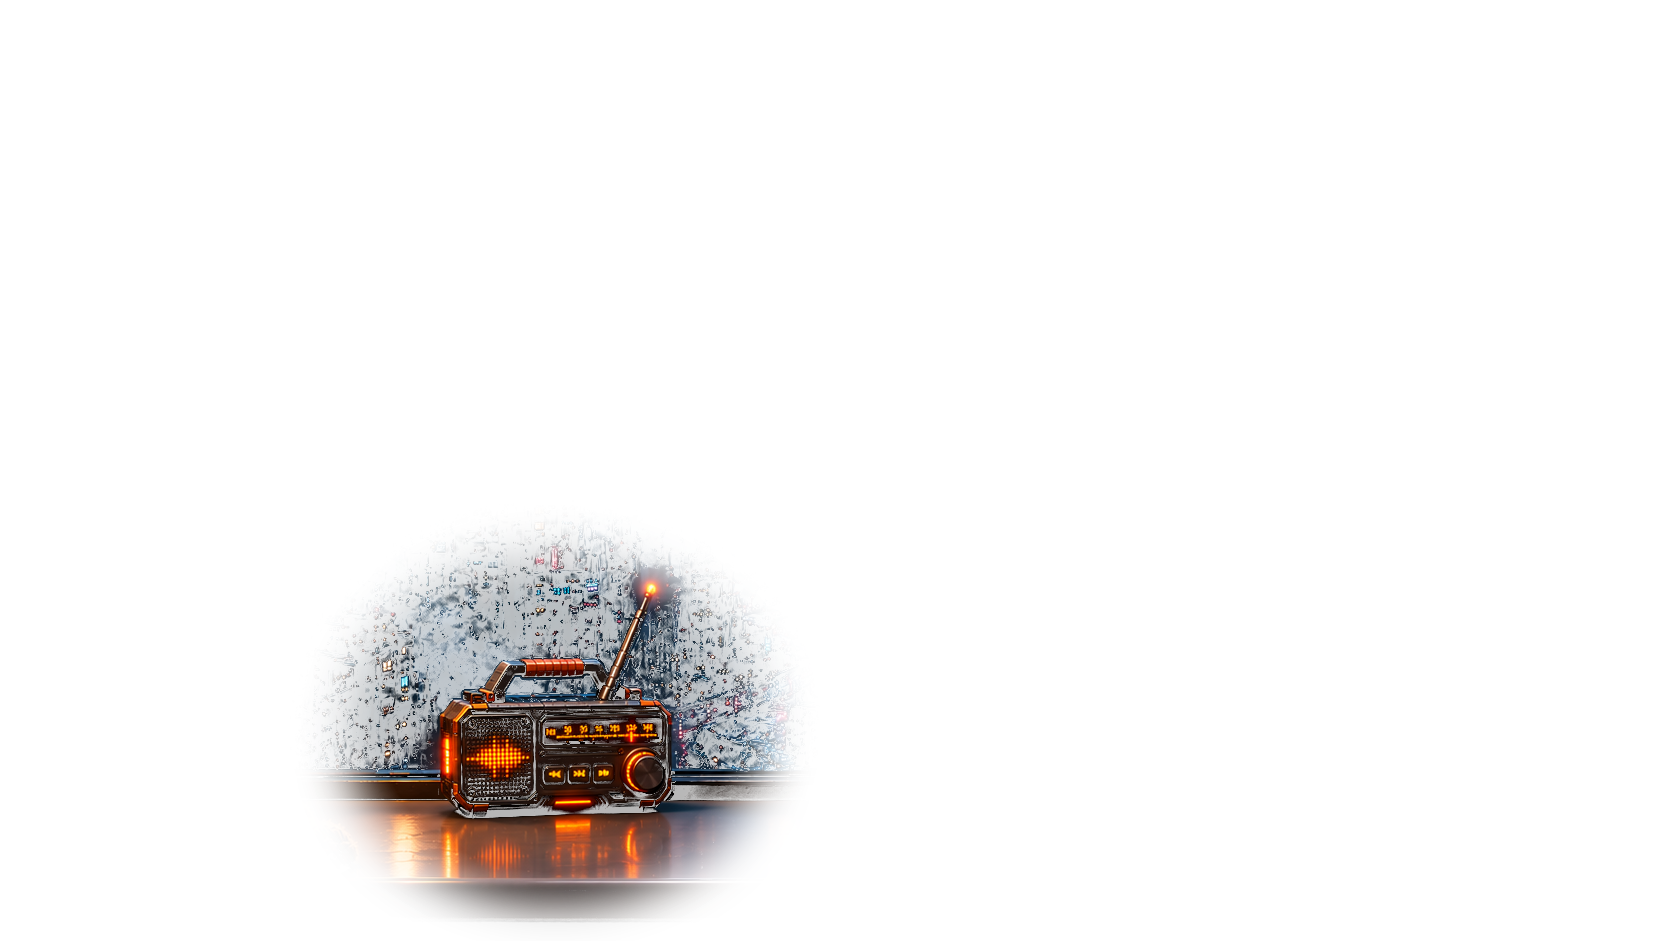
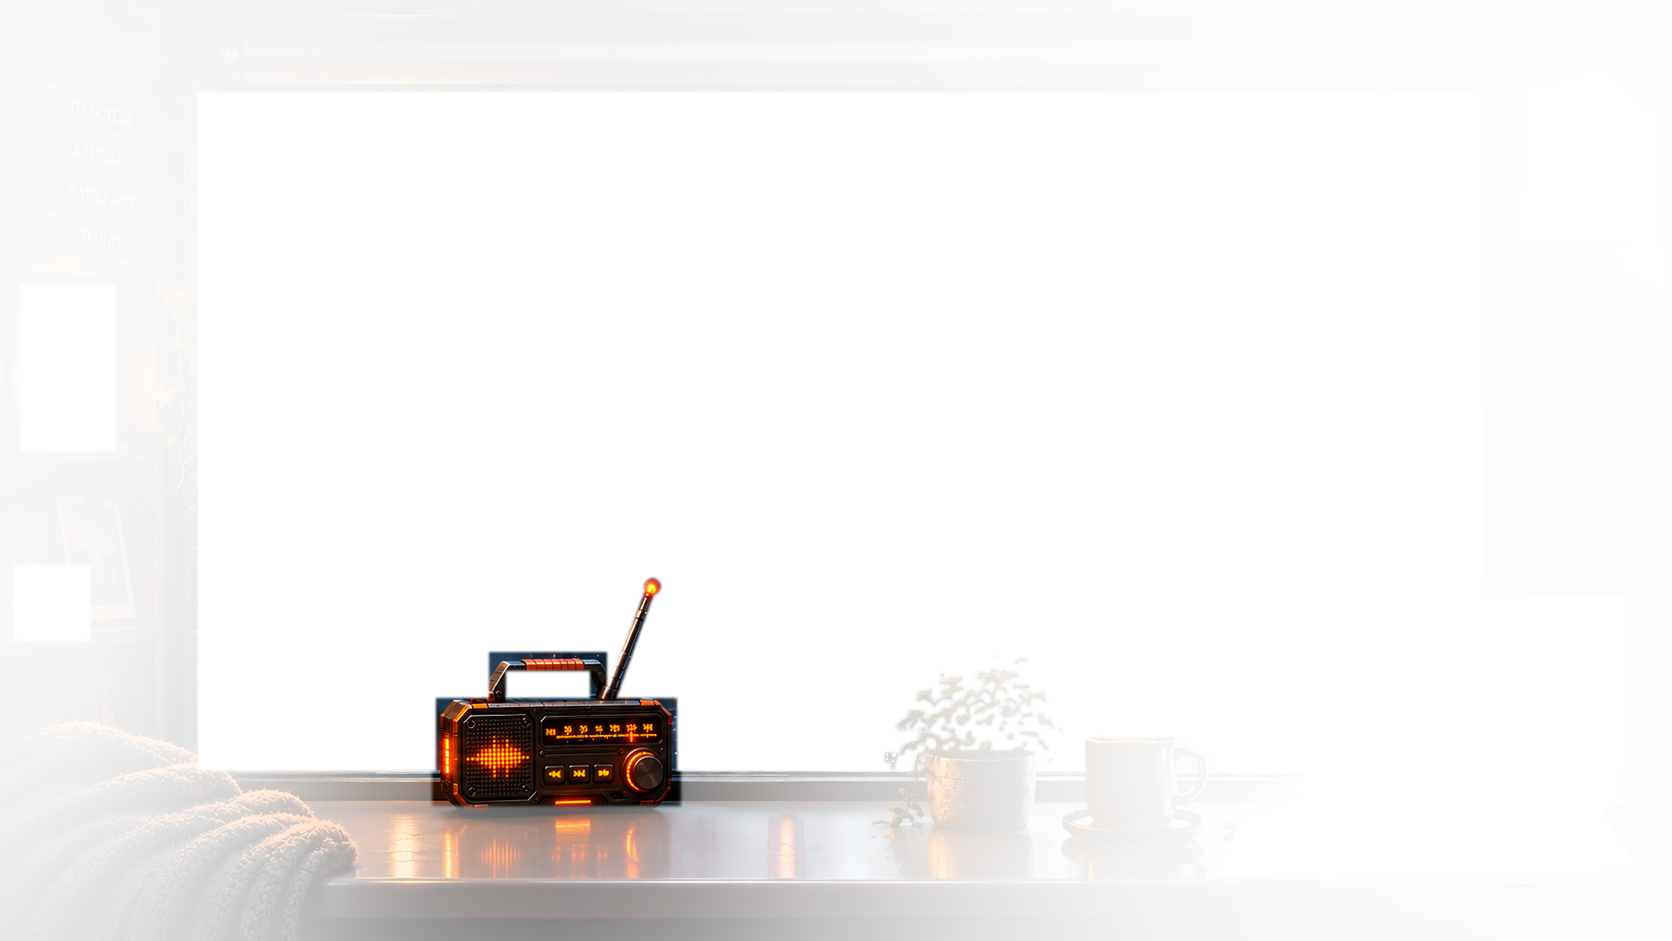
Свет по картам влияния ON−OFF (без утечек на экран ноутбука), натуральный тонкий дождь

Changed region(s): [[0.0, 0.5547, 0.6531, 1.0]]

diff --git a/src/main.js b/src/main.js
@@ -41,14 +41,16 @@ function fullPlane(frag, uniforms, blending = THREE.NormalBlending) {
   m.position.set(W / 2, H / 2, 0); m.renderOrder = order++; scene.add(m); return m;
 }
 
-// ---------- 1. база (всё выключено) ----------
+// ---------- 1–2. комната: OFF + Σ доля_i·(ON−OFF) — свет каждого прибора по своей карте влияния ----------
+// Карты (masks/light_rgb: r=лампа, g=фонарь+свеча, b=радио; masks/light_laptop) строит tools/make_layers.py;
+// предметы-источники — жёсткие маски, поэтому экран ноутбука светится только от ноутбука. Всё вкл = ON-кадр.
 const baseTex = loadTex(layerPath('01_base'));
-fullPlane(`uniform sampler2D map; uniform float uDim; void main(){ gl_FragColor=vec4(tex(map,world()).rgb*uDim,1.); }`, { map: { value: baseTex }, uDim: { value: 1 } });
-
-// ---------- 2. слои включённых устройств (мягкие маски по области устройства) ----------
-const devFrag = `uniform sampler2D map; uniform float uOn; void main(){ vec4 t=tex(map,world()); float a=t.a*uOn; if(a<.003) discard; gl_FragColor=vec4(t.rgb,a); }`;
-const dev = {};
-for (const id of DEVICE_IDS) dev[id] = { mesh: fullPlane(devFrag, { map: { value: loadTex(layerPath(SCENE.devices[id].layer)) }, uOn: { value: 0 } }), shown: 0, hover: 0 };
+const roomU = fullPlane(`uniform sampler2D map,uOnTex,uShare,uShareL; uniform vec4 uOn; // lamp, lantern, radio, laptop
+  void main(){ vec2 p=world(); vec3 b=tex(map,p).rgb, o=tex(uOnTex,p).rgb; vec3 s=tex(uShare,p).rgb; float sl=tex(uShareL,p).r;
+    float k=clamp(dot(vec4(s,sl),uOn),0.,1.); gl_FragColor=vec4(b+(o-b)*k,1.); }`,
+{ map: { value: baseTex }, uOnTex: { value: loadTex(layerPath('06_on')) }, uShare: { value: loadTex('./layers/masks/light_rgb.png') },
+  uShareL: { value: loadTex('./layers/masks/light_laptop.png') }, uOn: { value: new THREE.Vector4() } }).material.uniforms;
+const dev = {}; for (const id of DEVICE_IDS) dev[id] = { shown: 0, hover: 0 };
 
 // ---------- 3. экран ноутбука: живые часы/дата/погода пиксельным шрифтом ----------
 const S = SCENE.screen;
@@ -97,32 +99,35 @@ const glassMat = fullPlane(`uniform sampler2D uBase,uGlass,uNeon; uniform float 
     float lum=dot(bg,vec3(.3,.5,.2));
     gl_FragColor=vec4(bg+uFlash*(vec3(.30,.34,.48)*.35+bg*1.1+lum*.6),gm);        // молния
   }`, { uBase: { value: baseTex }, uGlass: { value: glassTex }, uNeon: { value: loadTex('./layers/masks/neon.png') }, uFlash: { value: 0 }, uNeonF: { value: 1 } }).material.uniforms;
-// дождь: шейдер из campfire без изменений логики (тонкие пиксельные штрихи, два слоя глубины), плюс маска стекла
-const rainU = { uRain: { value: 1 }, uRainDen: { value: 0.2 }, uRainLen: { value: 1 }, uRainSlant: { value: 0.2 }, uRainA: { value: 1 }, uRainT: { value: 0 }, uGlass: { value: glassTex } };
-const rainFrag = `uniform float uRain,uNear,uRainDen,uRainLen,uRainSlant,uRainA,uRainT; uniform sampler2D uGlass; varying vec2 vUv;
-  float hash(vec2 p){ return fract(sin(dot(p,vec2(127.1,311.7)))*43758.5453); }
+// дождь: тонкие (~1 px) штрихи, у каждой колонки свои случайные скорость, фаза, длина, позиция и прозрачность;
+// колонки независимы (нет пар и решётки), 3 слоя глубины, лёгкий наклон. Только по маске стекла.
+const rainU = { uRainDen: { value: 0.2 }, uRainLen: { value: 1 }, uRainSlant: { value: 0.04 }, uRainA: { value: 1 }, uRainT: { value: 0 }, uGlass: { value: glassTex } };
+const rainFrag = `uniform float uLayer,uRainDen,uRainLen,uRainSlant,uRainA,uRainT; uniform sampler2D uGlass; varying vec2 vUv;
+  float h1(float n){ return fract(sin(n*12.9898+uLayer*78.233)*43758.5453); }
+  float h2(vec2 p){ return fract(sin(dot(p,vec2(127.1,311.7))+uLayer*19.19)*43758.5453); }
   void main(){
     float gm = texture2D(uGlass, vUv).r; if (gm < .01) discard;
     vec2 p = vec2(vUv.x*${W}., (1.-vUv.y)*${H}.);
-    float near = step(.5, uNear);
-    float px = ${PIX.toFixed(4)} * mix(.75, 1., near);
-    p = (floor(p/px)+.5)*px;
-    float x = p.x + p.y*uRainSlant;
-    float c = floor(x/px);
-    float h = hash(vec2(c, uNear));
-    float per = mix(200., 300., near);
-    float len = mix(13., 26., near) * uRainLen;
-    float shift = uRainT * mix(560., 950., near) * (.85+.3*h) - h*per*9.;
-    float yy = p.y - shift;
-    float cyc = floor(yy/per);
-    if (hash(vec2(c*1.7 + cyc*13.1, 3.+uNear)) > uRainDen * mix(1.2, 1., near)) discard;
-    float m = mod(yy, per);
-    if (m > len) discard;
-    float a = mix(.2, .32, near) * uRain * uRainA * (m/len);
-    gl_FragColor = vec4(.72,.78,.9, a*gm);
+    float L = uLayer;                                   // 0 — дальний, 2 — ближний
+    float cw = mix(3., 7., L*.5);                       // ширина колонки (в ней одна тонкая линия)
+    float slant = uRainSlant*(.6+.4*L);
+    float x = p.x + p.y*slant; float c = floor(x/cw); float fx = fract(x/cw);
+    float speed = mix(520., 1100., L*.5) * (.75 + .5*h1(c));
+    float per = mix(260., 520., h1(c+31.7));            // своя «длина цикла» у колонки
+    float yy = p.y - uRainT*speed + h1(c+7.3)*per*13.;
+    float cyc = floor(yy/per); float m = mod(yy, per);
+    if (h2(vec2(c, cyc)) > uRainDen*mix(.9, .55, L*.5)) discard;
+    float len = mix(10., 34., L*.5) * uRainLen * (.6 + .8*h2(vec2(c, cyc+.5)));
+    float start = h2(vec2(c+.3, cyc)) * (per - len);    // капля в случайном месте цикла
+    float k = (m - start)/len; if (k < 0. || k > 1.) discard;
+    float cx = .2 + .6*h2(vec2(c, cyc+1.7));            // позиция линии внутри колонки
+    float d = abs(fx - cx)*cw; float wpx = mix(.5, .9, L*.5);
+    float a = (1. - smoothstep(wpx*.4, wpx, d)) * k * mix(.14, .3, L*.5) * (.5 + .7*h2(vec2(c+.9, cyc))) * uRainA;
+    if (a < .004) discard;
+    gl_FragColor = vec4(.74,.8,.92, a*gm);
   }`;
-for (const near of [0, 1]) {
-  const m = new THREE.Mesh(plane, new THREE.ShaderMaterial({ vertexShader: vert, fragmentShader: rainFrag, transparent: true, depthTest: false, depthWrite: false, uniforms: { ...rainU, uNear: { value: near } } }));
+for (const L of [0, 1, 2]) {
+  const m = new THREE.Mesh(plane, new THREE.ShaderMaterial({ vertexShader: vert, fragmentShader: rainFrag, transparent: true, depthTest: false, depthWrite: false, uniforms: { ...rainU, uLayer: { value: L } } }));
   m.position.set(W / 2, H / 2, 0); m.renderOrder = order++; scene.add(m);
 }
 let rainShown = null;
@@ -276,16 +281,16 @@ function frame(now) {
     const d = dev[id], f = SCENE.devices[id].fade, on = settings.devices[id] ? 1 : 0;
     d.shown += Math.sign(on - d.shown) * Math.min(Math.abs(on - d.shown), dt / f); d.hover += ((hoverId === id ? 1 : 0) - d.hover) * Math.min(1, dt * 8);
     let a = d.shown;
-    if (id === 'lantern') a *= 0.86 + 0.1 * Math.sin(clock * 9.1) * Math.sin(clock * 3.3 + 1) + 0.04 * Math.sin(clock * 23);
+    if (id === 'lantern') a *= 0.95 + 0.04 * Math.sin(clock * 9.1) * Math.sin(clock * 3.3 + 1) + 0.01 * Math.sin(clock * 23); // среднее ≈ ON-кадр
     if (id === 'laptop' && on && d.shown < 1) a *= Math.random() < 0.3 ? 0.4 : 1; // экран «загорается» с миганием
-    d.mesh.material.uniforms.uOn.value = Math.max(a, d.hover * 0.2 * (1 - d.shown));
+    roomU.uOn.value.setComponent(DEVICE_IDS.indexOf(id), Math.max(a, d.hover * 0.2 * (1 - d.shown)));
   }
   scrMesh.material.uniforms.uOn.value = dev.laptop.shown;
   if (settings.devices.laptop) { drawScreen(); refreshWeather(clock); }
   const R = rainParams(rainLevel());
   rainShown = rainShown ?? rainLevel(); rainShown += (rainLevel() - rainShown) * (1 - Math.exp(-dt * 1.2)); // плавно, как в campfire
   const RP = rainParams(rainShown);
-  rainU.uRainDen.value = RP.density; rainU.uRainLen.value = RP.length; rainU.uRainSlant.value = RP.slant; rainU.uRainA.value = RP.alpha; rainU.uRainT.value += dt * RP.speed;
+  rainU.uRainDen.value = RP.density; rainU.uRainLen.value = RP.length; rainU.uRainSlant.value = 0.03 + RP.slant * 0.15; rainU.uRainA.value = RP.alpha; rainU.uRainT.value = (rainU.uRainT.value + dt * RP.speed) % 1800; // ограничиваем фазу — без потери точности float
   steamU.uWarm.value = dev.lamp.shown;
   neonT -= dt; if (neonT <= 0) { neonF = Math.random() < 0.06 ? 0.8 + Math.random() * 0.1 : 1 + (Math.random() - 0.5) * 0.04; neonT = neonF < 0.95 ? 0.12 + Math.random() * 0.15 : 0.8 + Math.random() * 2.5; }
   glassMat.uNeonF.value += (neonF - glassMat.uNeonF.value) * Math.min(1, dt * 10);

diff --git a/tools/make_layers.py b/tools/make_layers.py
@@ -56,3 +56,42 @@ for i, k in enumerate(['lantern', 'lamp', 'radio', 'laptop']):
 save(glass, 'glass', True); save(neonm, 'neon', True)
 # фон экрана ноутбука (для живых часов)
 print('screen bg', B[700, 1470].astype(int), B[650, 1470].astype(int), B[725, 1590].astype(int))
+
+# ---------- карты влияния света (v2): ON = OFF + Σ share_i·(ON−OFF) ----------
+# Каждый пиксель разницы ON−OFF отдаётся ближайшему/сильнейшему источнику; предметы-источники — жёсткие маски.
+yy, xx = np.mgrid[0:H, 0:W].astype(float)
+diff = B - A; dl = np.clip(diff.mean(2), 0, None)
+cyan = np.clip((B[..., 2] - B[..., 0]) / 120, 0, 1)         # голубизна ON-пикселя (свет ноутбука)
+warm = np.clip((B[..., 0] - B[..., 2]) / 120, 0, 1)
+def fall(cx, cy, r): return 1 / (1 + ((xx - cx) ** 2 + (yy - cy) ** 2) / r ** 2)
+w = {
+  'lamp': 1.0 * fall(1590, 200, 420) * (0.3 + warm),
+  'lantern': 0.8 * np.maximum(fall(62, 372, 260), fall(50, 600, 200)) * (0.3 + warm),
+  'radio': 0.5 * fall(555, 745, 150) * (0.3 + warm),
+  'laptop': 1.2 * fall(1420, 720, 260) * (0.15 + 2 * cyan),
+}
+tot = sum(w.values()) + 1e-6; share = {k: v / tot for k, v in w.items()}
+def hard(poly_or_fn):
+    m = Image.new('L', (W, H), 0); poly_or_fn(ImageDraw.Draw(m)); return np.asarray(m.filter(ImageFilter.GaussianBlur(1.5)), float) / 255
+H_ = {
+  'laptop': hard(lambda d: d.polygon([(1312, 600), (1625, 594), (1622, 800), (1600, 812), (1640, 870), (1215, 875), (1240, 820), (1305, 800)], 255)),
+  'radio': hard(lambda d: (d.rectangle((432, 650, 680, 805), 255), d.line((609, 702, 652, 585), 255, 12), d.ellipse((640, 574, 664, 598), 255))),
+  'lamp': hard(lambda d: d.polygon([(1525, 90), (1600, 70), (1660, 120), (1660, 240), (1520, 240)], 255)),
+  'lantern': hard(lambda d: (d.rectangle((20, 285, 115, 450), 255), d.rectangle((15, 565, 90, 640), 255))),
+}
+for k, m in H_.items():  # предмет-источник: его пиксели только у него (экран ноутбука не светится от лампы)
+    for j in share: share[j] = share[j] * (1 - m) + (m if j == k else 0)
+share = {k: v * (1 - gl) for k, v in share.items()}           # стекло рисует свой шейдер
+rgb = np.dstack([share['lamp'], share['lantern'], share['radio']])
+Image.fromarray((rgb * 255).round().astype(np.uint8)).save('public/layers/masks/light_rgb.png')
+Image.fromarray((share['laptop'] * 255).round().astype(np.uint8)).save('public/layers/masks/light_laptop.png')
+save(on, '06_on')
+for i, k in enumerate(['lantern', 'lamp', 'radio', 'laptop']):  # справочные слои устройств (ON с альфой = доля)
+    save(Image.fromarray(np.dstack([B, share[k] * 255]).astype(np.uint8), 'RGBA'), f'0{i+2}_{k}_on')
+S8 = {k: np.round(v * 255) / 255 for k, v in share.items()}
+allon = A + diff * sum(S8.values())[..., None]
+mask = gl < 0.01
+print('all-on vs ON, mean |diff| (0..255) вне стекла:', round(np.abs(allon - B)[mask].mean(), 2), ' база OFF vs ON:', round(np.abs(A - B)[mask].mean(), 2))
+lamp_on = A + diff * S8['lamp'][..., None]
+scr = (slice(612, 740), slice(1330, 1600))
+print('лампа одна: экран ноутбука, среднее отличие от OFF:', round(np.abs(lamp_on - A)[scr].mean(), 2))

diff --git a/docs/PLAYBOOK.md b/docs/PLAYBOOK.md
@@ -7,12 +7,12 @@
 ## 2. Арт и слои
 - Исходники: `art_src/off.png` (всё выключено) и `art_src/on.png` (всё включено) — один кадр, выровнены по пикселям (сдвиг 0,0; OFF на 1 px уже — дублируется край).
 - `python3 tools/make_layers.py` → `public/layers/{aligned,half}/01_base … 05_laptop_on.png` и маски `public/layers/masks/{glass,neon}.png`.
-- Слой устройства = ON-кадр с мягкой маской (свет растекается по стене/подоконнику); на стекле маска гасится — стекло рисует шейдер.
+- Свет: комната = OFF + Σ доля_i·(ON−OFF). Карты влияния `masks/light_rgb.png` (r лампа, g фонарь+свеча, b радио) и `masks/light_laptop.png` — разница ON−OFF отдана источнику по силе/расстоянию/цвету; сами приборы — жёсткие маски (нет утечек: экран ноутбука только от ноутбука). Всё вкл ≈ ON (скрипт печатает средний diff).
 - Предметы перед дождём (радио с антенной, растение, кружка, крышка ноутбука) — вырезаны из маски стекла по силуэту, не горизонтальным клипом.
 - Все координаты (хотспоты, экран ноутбука, пар, город для погоды) — в `SCENE` в `src/config.js`.
 
 ## 3. Эффекты
-- Стекло: дождь — шейдер штрихов из campfire (два слоя, параметры rainParams как в campfire) под маской стекла; мягкое мерцание неона; вспышки молнии.
+- Стекло: тонкие (~1 px) штрихи, независимые колонки со своими скоростью/фазой/длиной/прозрачностью, 3 слоя глубины, лёгкий наклон; маска стекла. Мягкий неон, молния. Учтите: в исходном арте уже нарисованы капли.
 - Пар над кружкой, мерцание фонаря, «загорание» экрана. Пиковые состояния: `?rain=1&devices=all`, гроза — `?thunder=1` или `__rainroom.thunder(1)`.
 
 ## 4. Интерактив
